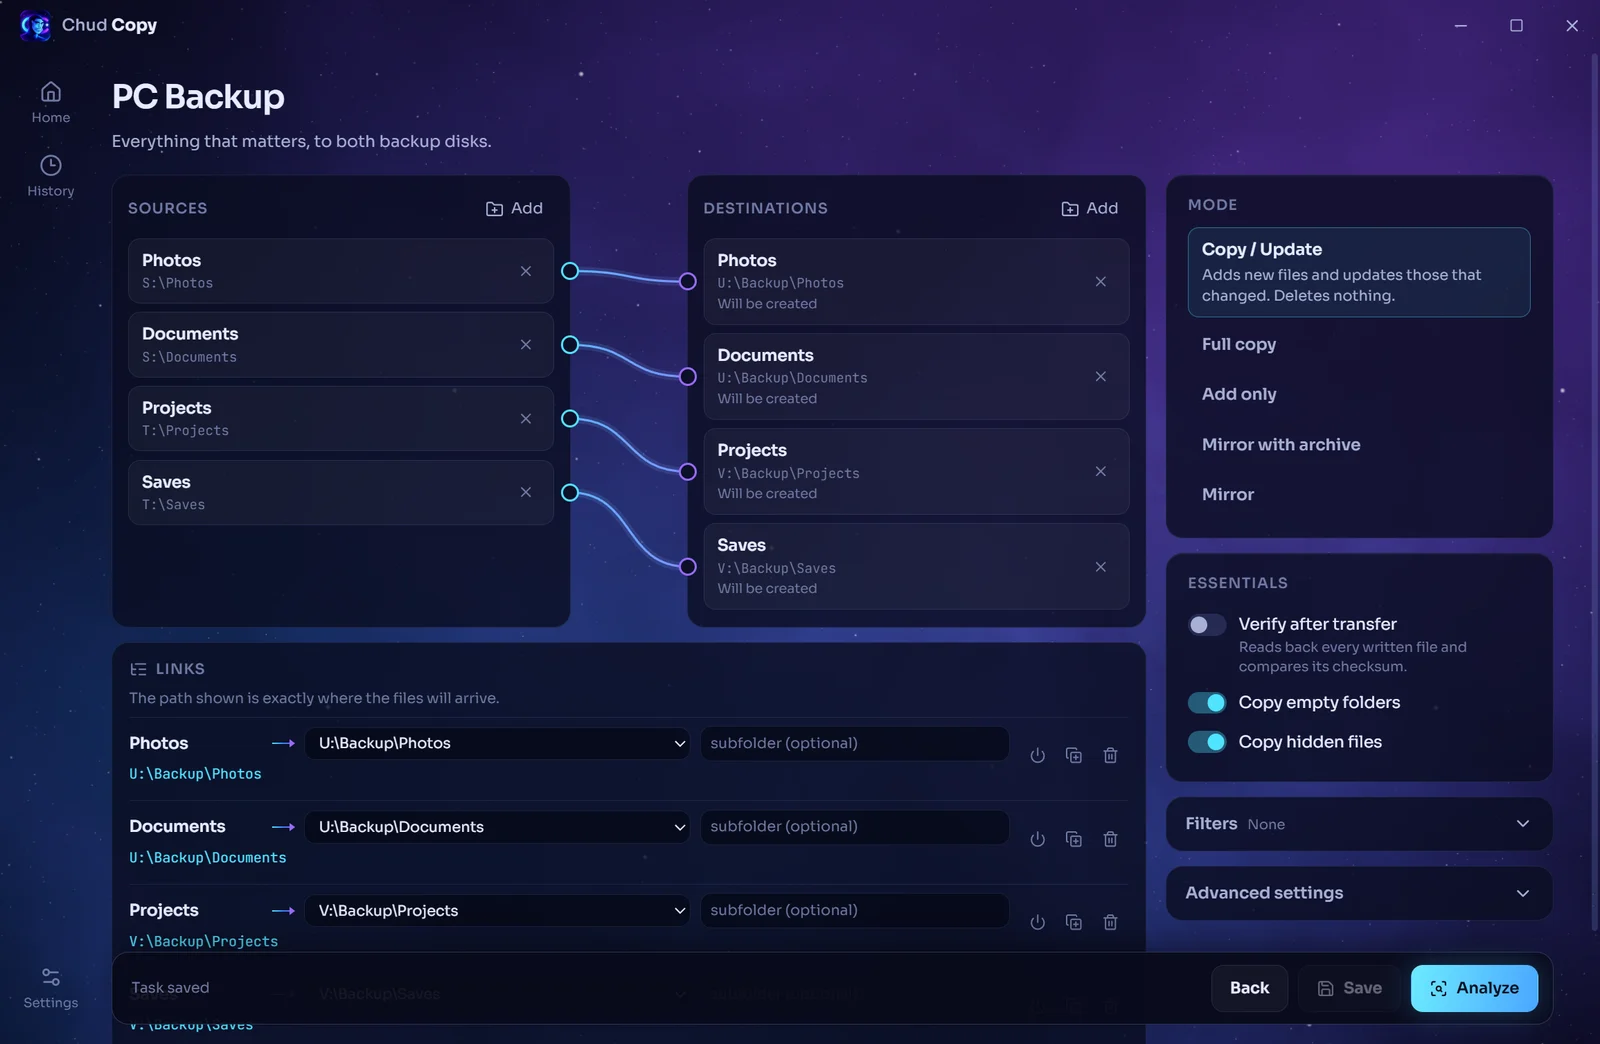
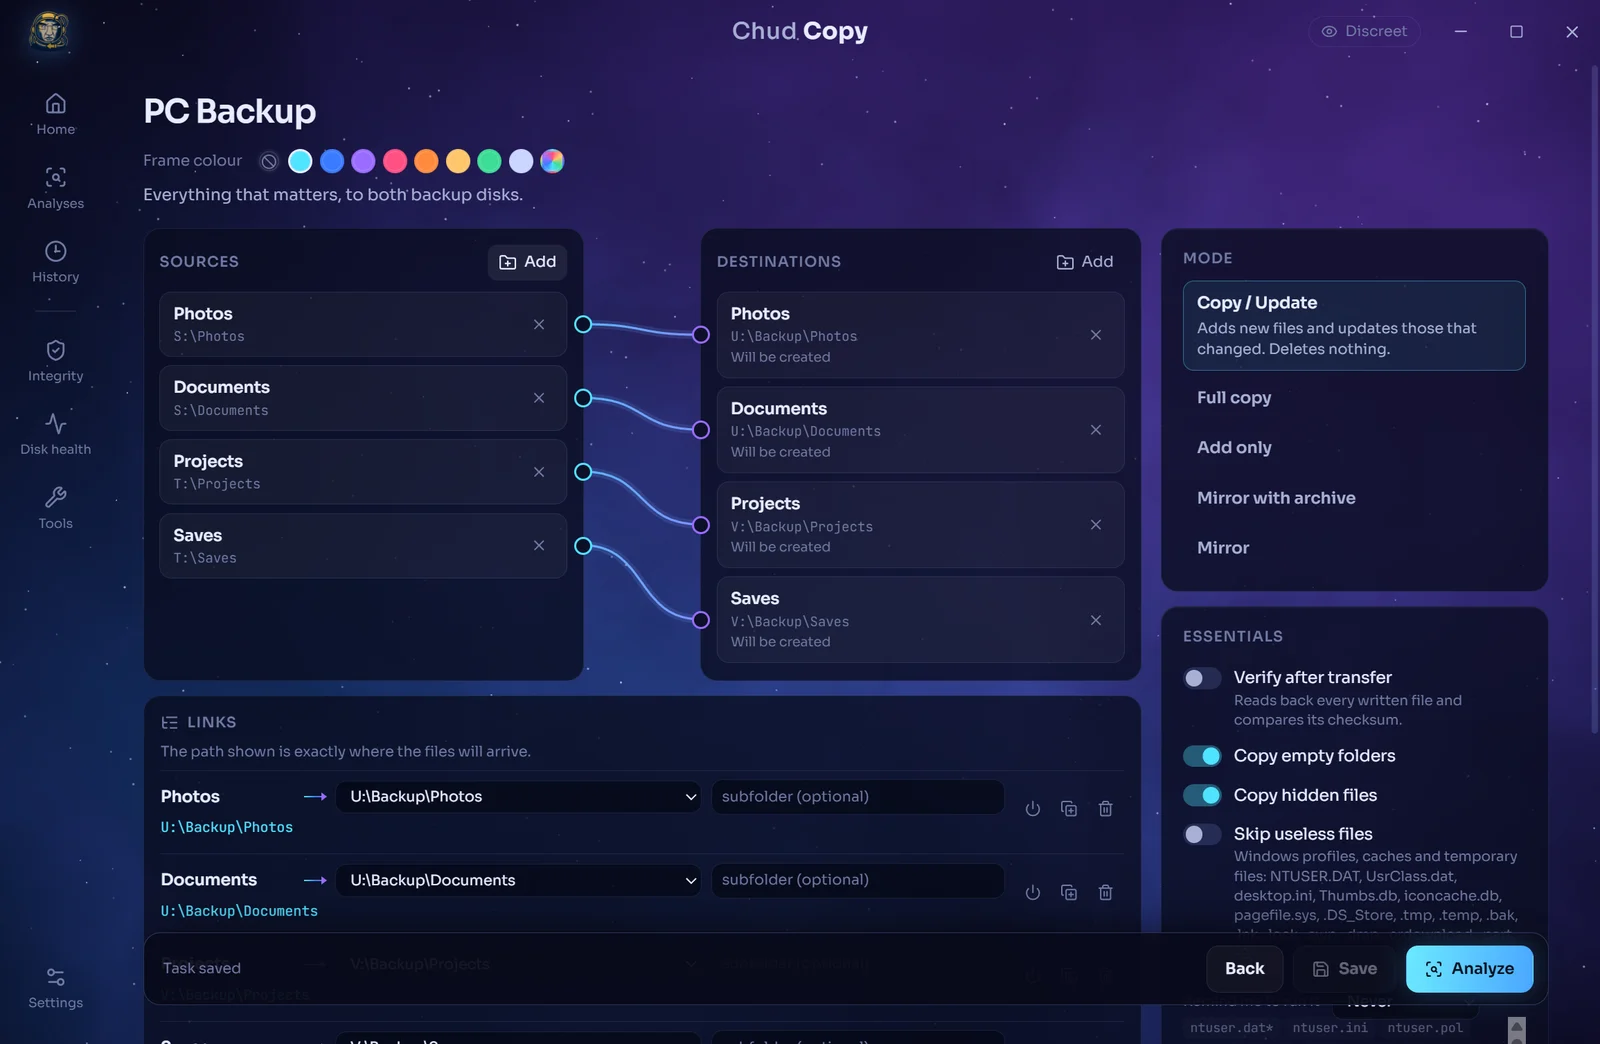
Show Chud Copy 1.6 tools and new interface

diff --git a/README.md b/README.md
@@ -34,6 +34,8 @@ It is deliberately simple about one thing: **nothing runs without you.** No clou
 
 Pick sources and destinations, then draw the links between them. One source can feed several destinations, and sources sharing a destination each get their own subfolder, so folder trees never mix by accident.
 
+Give each task its own frame colour, drag tasks into the order you like, and set a reminder for backups you tend to forget.
+
 </td>
 <td width="50%"><img src=".github/assets/editor.webp" alt="Task editor with links between sources and destinations"></td>
 </tr>
@@ -52,7 +54,7 @@ Analyze any task without changing a single file. Search through what will be cop
 
 ### Follow the real numbers
 
-Speed, time left, files and the current file all come straight from the engine, for each destination. Pause, resume or cancel at any time. A cancelled copy never leaves a half-written file behind. While a copy runs, add other tasks to a queue: they start one after another, and the queue never survives closing the app.
+Speed, time left, files and the current file all come straight from the engine, for each destination. Pause, resume or cancel at any time. A cancelled copy never leaves a half-written file behind. While a copy runs, add other tasks to a queue: they start one after another, and the queue never survives closing the app. The frame burns brighter as the copy goes faster, and a sound tells you when it is done.
 
 </td>
 <td width="50%"><img src=".github/assets/transfer.webp" alt="Transfer in progress with one progress bar per destination"></td>
@@ -74,6 +76,13 @@ Filters cover extensions, names, folders, size and date. An optional checkbox sk
 ## Tools to check your disks
 
 Each tool explains in one sentence what it does, and none of them changes your files unless you ask.
+
+<table>
+<tr>
+<td width="50%"><img src=".github/assets/tools.webp" alt="Tools screen with a card for each tool"></td>
+<td width="50%"><img src=".github/assets/integrity.webp" alt="Integrity check that found one corrupted photo"></td>
+</tr>
+</table>
 
 | Tool | What it does |
 | --- | --- |
